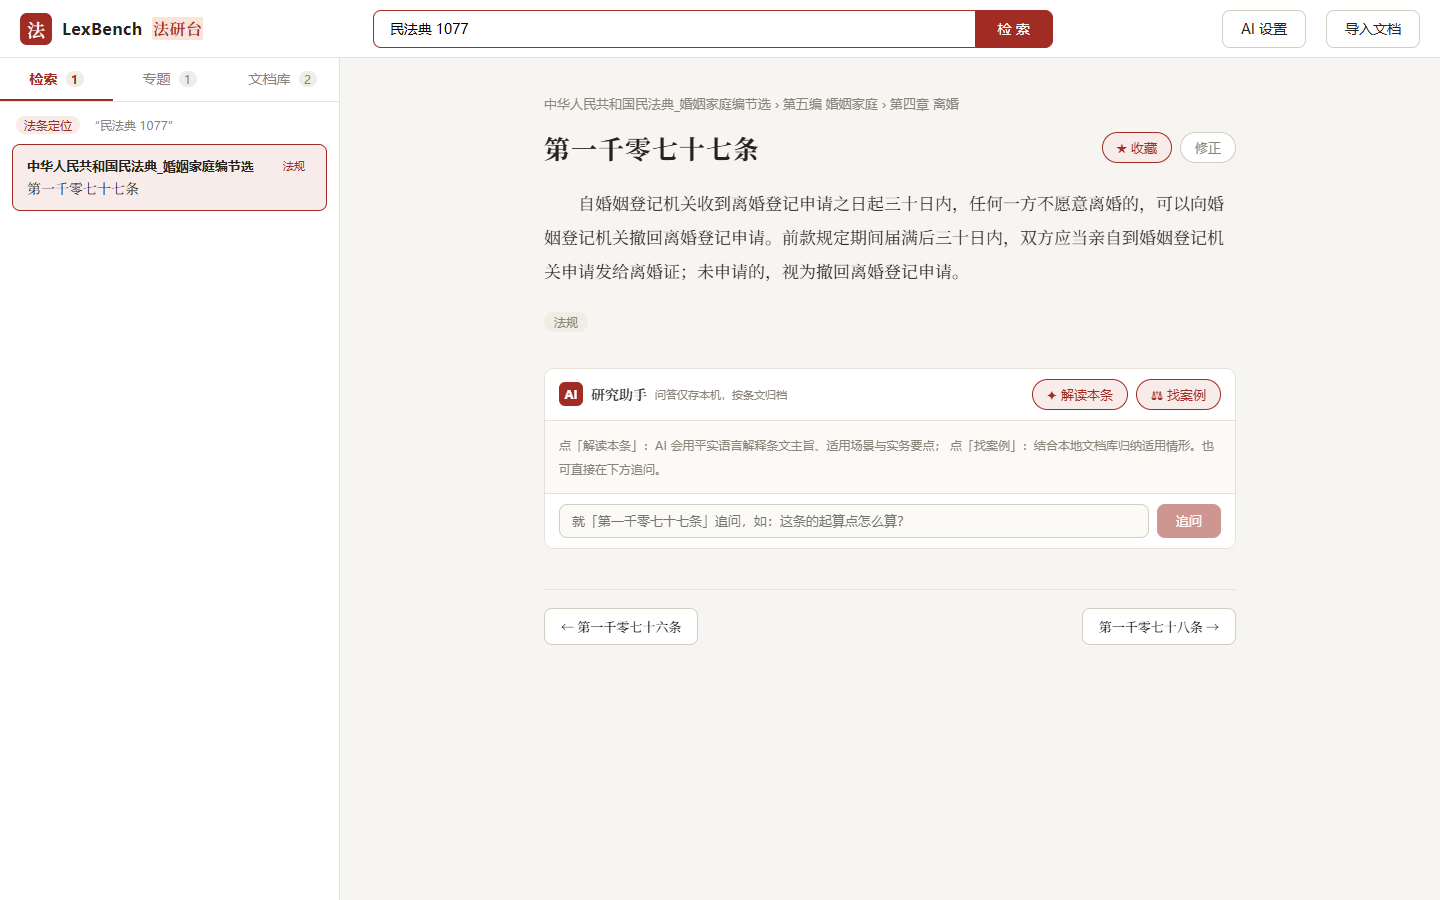
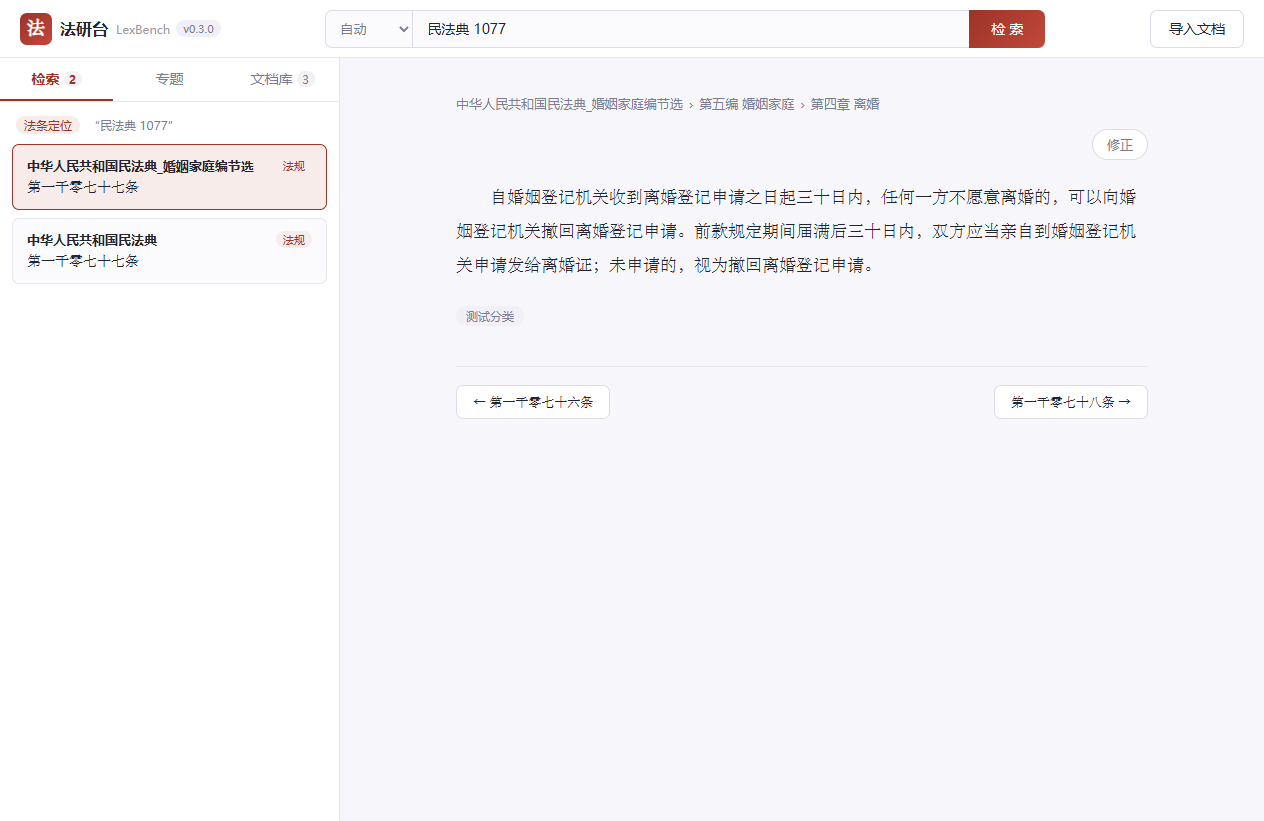
docs: v0.3.0 发布准备——README 重写、CHANGELOG、Release 说明、新 UI 截图

diff --git a/README.md b/README.md
@@ -1,81 +1,53 @@
-# LexBench · 法研台
+# 法研台 · LexBench
 
-**本地优先的个人法律研究工作台** —— 导入、检索、收藏、笔记、AI 辅助，全流程一个界面完成。你的文档、笔记、配置全部保存在本机，不上传任何服务器。
+**本地优先的个人法律研究工作台** —— 导入你的 Word / PDF / TXT 法律文档，自动按「第X条」切分建库；输入「民法典 1077」直接跳到那条法条；全文检索带高亮与摘要；条文可随手修正。你的文档、数据、配置全部保存在本机，不上传任何服务器。
 
-> **English** — LexBench is a local-first legal research workbench: import your Word/PDF statutes and cases, locate articles by number ("民法典 1077"), run full-text search with highlights, collect articles into research topics with Markdown notes, and ask an OpenAI-compatible AI assistant to explain any article with clickable citations. Ships as a portable Windows desktop app (no Python needed) — all data stays on your machine.
+> **English** — LexBench is a local-first legal research workbench for Chinese law: import your Word/PDF/TXT statutes and cases, locate articles by number ("民法典 1077"), run full-text search with highlights and snippets, and correct mis-parsed articles in place. Ships as a proper Windows installer with auto-update — all data stays on your machine.
 
 ## 界面预览
 
-| 法条定位 + AI 助手 | 全文检索 | 研究工作台 |
+| 法条定位 + 阅读 | 全文检索 | 文档库 |
 |---|---|---|
-| ![法条定位](docs/screenshots/01-locate.png) | ![全文检索](docs/screenshots/02-fulltext.png) | ![研究工作台](docs/screenshots/03-workbench.png) |
+| ![法条定位](docs/screenshots/01-locate.png) | ![全文检索](docs/screenshots/02-fulltext.png) | ![文档库](docs/screenshots/03-library.png) |
 
-## 下载安装（推荐）
+## 下载安装
 
-1. 打开 [Releases 页面](https://github.com/a1531307144-cell/LexBench/releases)，下载最新的 `LexBench-x.x.x-windows-x64.zip`
-2. **解压**压缩包到任意文件夹（如桌面）
-3. 双击 `LexBench.exe` —— 打开的是独立软件窗口，无需安装 Python，也不占用浏览器
+1. 打开 [Releases 页面](https://github.com/a1531307144-cell/LexBench/releases)，下载最新的 `LexBench-Setup-x.x.x.exe`
+2. 双击安装（可选安装位置），桌面与开始菜单自动创建快捷方式
+3. 有新版本时软件会**提示你**决定是否下载安装（绝不擅自下载）
 
 **常见问题**
 
 - **Windows 提示"已保护你的电脑"**：本软件是个人开源项目，没有购买微软代码签名证书（每年数百美元），所有个人开源软件都会遇到。点「更多信息」→「仍要运行」即可；全部源代码公开可查
-- **你的数据在哪**：全在 LexBench.exe 旁边的 `data\` 文件夹里。换电脑 = 整个文件夹拷走；卸载 = 直接删除
-- **双击没反应**：确认已解压（不要在压缩包里直接双击）；窗口打不开时按提示安装微软 WebView2 运行时
-
-> 示例数据：仓库 [samples/](samples/) 目录有《民法典》婚姻家庭编节选等示例文本，拖进软件窗口即可体验全部功能。
-
-## 从源码运行（开发者）
-
-前置要求：Windows + Python 3.10+（无需 Node.js，前端已预构建）
-
-```
-1. 双击 start.bat（首次运行自动创建虚拟环境并安装依赖）
-2. 浏览器自动打开 http://127.0.0.1:8788
-```
-
-想用**独立软件窗口**（非浏览器）且保留现有数据：双击 `scripts\start-desktop.bat`——效果与下载版一致，且直接读取仓库 `data\` 里已导入的文档。
-
-源码模式下也可预览桌面窗口形态：`pip install -r backend/requirements-desktop.txt` 后运行 `python desktop.py`。
-
-> 《民法典》婚姻家庭编节选示例：试试搜索 `民法典 1077`（法条定位）和 `离婚 冷静期`（全文搜索）。
+- **你的数据在哪**：全在本机用户数据目录（数据库 + 原件归档），卸载软件也不会动它
+- **旧网页版 / 便携版的数据**：将在 v0.5.0 提供一键迁移（本版本起数据库结构与旧版完全一致，迁移零损失）
 
 ## 功能
 
-- **文档导入**：拖拽导入 Word (.docx) / PDF / 纯文本 (.txt) 法律文档，自动按"第X条"切分建库（法规 / 案例 / 其他资料三种类型）；内容哈希去重；解析异常自动标记"需复查"
-- **双模式检索**：
-  - 法条定位 —— 输入 `民法典 1077` 直接跳到《民法典》第一千零七十七条；法规名支持简写（`民诉法` → 《民事诉讼法》）
-  - 全文搜索 —— 中文分词 + bm25 排序，关键词高亮与上下文摘要
-- **研究工作台**：按专题（如"离婚财产分割"）★ 收藏法条，专题内逐条浏览，右栏 Markdown 笔记（可关联具体法条），一键导出 Markdown / Word 研究报告
-- **AI 研究助手**：接入任意 OpenAI 兼容接口（DeepSeek / 通义 / Kimi 等），在法条页一键「解读本条」「找案例」或自由追问；回答中的《法规名》第X条引用可点击跳转核对；问答按条文存档本机
-- **条文修正**：解析有误的条文可直接在阅读器内修正，全文索引同步更新
+- **文档导入**：拖拽或点选导入 Word (.docx) / PDF / 纯文本 (.txt)，自动识别法规 / 案例 / 其他资料三种类型，按「第X条」切分建库（编 / 章 / 节层级齐全，支持「第一千零七十七条」与「之X」变体）；内容哈希去重；解析异常自动标记「需复查」并支持一键标记已复查
+- **双模式检索**（可手动切换或用自动模式）：
+  - 法条定位 —— 输入 `民法典 1077`、`公司法 第51条` 或 `民法典第一千零七十七条` 直接跳到条文；法规名支持简写（`民诉法` → 《民事诉讼法》）
+  - 全文搜索 —— 中文分词 + bm25 相关度排序，关键词高亮与上下文摘要，多关键词部分命中也召回
+- **阅读器**：编/章/节面包屑、衬线条文排版、上一条/下一条翻页、文档目录浏览
+- **条文修正**：解析有误的条文可直接在阅读器内修正，保存后全文索引同步更新
+- **研究工作台**（v0.4.0）：专题收藏、Markdown 笔记、一键导出研究报告
+- **AI 研究助手**（v0.5.0）：解读法条 / 找案例 / 自由追问，引用可点击核对
 
-## AI 助手配置（可选）
+## 从源码运行（开发者）
 
-1. 点击右上角「AI 设置」，填入 OpenAI 兼容接口地址（如 `https://api.deepseek.com/v1`）、模型名与 API Key，点「测试连接」验证
-2. 打开任意法条，在正文下方「AI 研究助手」面板使用三个功能
-3. API Key 只保存在本机 `data/` 目录的数据库中，不会上传 GitHub、不写入任何日志；AI 调用只发生在你主动配置之后
+前置要求：Windows + Node.js 20+
+
+```
+1. npm install
+2. npm run dev        # 开发模式（热更新 + 调试端口）
+3. npm test           # src/shared 纯函数单测
+4. npm run dist       # 构建 Windows 安装包（release/ 目录）
+```
+
+> 仓库 `samples/` 目录有《民法典》婚姻家庭编节选与一份明确标注虚构的演示案例，拖进窗口即可体验全部功能。
 
 ## 开发
 
-```
-backend:  cd backend && pip install -r requirements.txt && pytest
-frontend: cd frontend && npm install && npm run dev
-桌面打包: powershell -ExecutionPolicy Bypass -File scripts\build_desktop.ps1
-```
-
-详细设计见 [docs/plans/2026-09-17-lexbench-design.md](docs/plans/2026-09-17-lexbench-design.md)。
-
-## 发布流程（维护者）
-
-对外发布（push / 打 tag / Release）前必须走 [docs/RELEASE_CHECKLIST.md](docs/RELEASE_CHECKLIST.md) 审批：
-
-```
-python scripts/security_check.py --history --strict   # 第一关：自动扫描隐私与密钥
-人工复核 RELEASE_CHECKLIST.md 清单                     # 第二关：逐项确认
-```
-
-CI 会在每次推送时自动复检测试与安全扫描，本地漏掉的会被拦截。
-
-## 许可
-
-代码采用 [MIT License](LICENSE)。你的法律文档、笔记、AI 配置等数据全部保存在本地 `data/` 目录，不上传、不入库。
+- `backend` 不存在了——v0.3.0 起是纯 Electron 工程：`src/main`（主进程）/ `src/preload`（白名单 API）/ `src/renderer`（Vue 3 界面）/ `src/shared`（三进程共享纯函数，vitest 覆盖）
+- 旧 Python 版完整保留在 `legacy/` 目录，仅作移植参考；新旧数据库 schema 一致，为旧数据迁移铺路
+- 发布：推 `v*` 标签 → GitHub Actions 自动测试 → 隐私扫描 → 构建安装包 → 发布 Release

diff --git a/CHANGELOG.md b/CHANGELOG.md
@@ -3,6 +3,38 @@
 本项目的所有显著变更记录于此。格式基于 [Keep a Changelog](https://keepachangelog.com/zh-CN/1.1.0/)，
 版本号遵循 [语义化版本](https://semver.org/lang/zh-CN/)。
 
+## [0.3.0] - 2026-09-18
+
+**彻底重建**：从 Python/pywebview「解压即用」方案迁移到与成熟桌面软件同款的 Electron 架构（Electron + Vue 3 + TypeScript）。界面全面重做为干净现代的浅色风格；安装包 + 自动更新提示；工程链路对齐正规发布流程（自动测试 → 隐私扫描 → CI 构建发布）。功能逐项从旧版移植，检索内核升级为无原生依赖的全新实现。
+
+### Added
+
+- **正规桌面形态**：NSIS 安装包（可选安装位置、带卸载、桌面/开始菜单快捷方式）；发现新版本仅提示、由用户决定是否下载安装（绝不擅自下载）
+- **检索引擎重写**：中文分词改用系统内置 `Intl.Segmenter`，检索走 SQLite FTS5 内置 bm25——零原生模块、免编译工具链；索引与查询共用同一分词器
+- **数据结构兼容**：数据库 schema 与旧版逐字一致（node:sqlite 迁移机制对齐 legacy user_version 方案），为 v0.5.0 旧数据一键迁移铺路
+- **界面重做**：顶栏三模式搜索（自动/法条定位/全文搜索——新增手动模式切换）、检索/专题/文档库三栏导航、衬线条文阅读器（面包屑/翻页/修正）、导入对话框（拖拽 + 多选 + 逐文件三态结果 + 成功自动清理）
+- **核心功能完整移植**（期望值逐条镜像旧版 Python 测试，74 个单测 + CDP 实机自测）：
+  - 文档导入：docx / pdf / txt，自动类型识别、哈希去重、「需复查」守卫（.doc 老格式给出明确转换提示）
+  - 法条定位：「民法典 1077」「公司法 第51条」「民法典第一千零七十七条」；法规名子串 + 子序列简写匹配
+  - 全文检索：OR 召回 + bm25 排序 + HTML 转义高亮 + 上下文摘要
+  - 条文修正：保存后全文索引同步重建
+- **测试防线**：74 个 vitest 单测（src/shared 纯函数层）+ CDP 实机自测脚本（导入→建库→定位→检索→UI 渲染全链路）+ 发版隐私扫描闸门
+
+### Fixed（旧版交互缺陷，新版逐项修复）
+
+- 条文修正「保存中…」状态失效（按钮立刻恢复可点）
+- 文档状态只能看不能改（「需复查」现在可一键标记已复查）
+- 搜索模式不可控（新增 自动/定位/全文 三选手动切换）
+- 删除确认用原生弹窗（改为统一样式确认框）
+- 全局错误条不可关闭、API 失败静默无提示
+- 窗口拖拽监听器泄漏；拖拽与导入对话框双重处理；拖入不支持类型无反馈
+- 导入成功后文件列表不清空（可一键再传制造重复）
+
+### Changed
+
+- 仓库结构：旧 Python 工程整体归档至 `legacy/`；根目录变为纯 Electron 工程
+- 截图脚本改为 CDP 直驱真实应用（`scripts/take-screenshots.mjs`）
+
 ## [0.2.0] - 2026-09-18
 
 从"网页版"进化为**可下载的桌面软件**：解压即用，双击 LexBench.exe 打开独立软件窗口，无需安装 Python。
